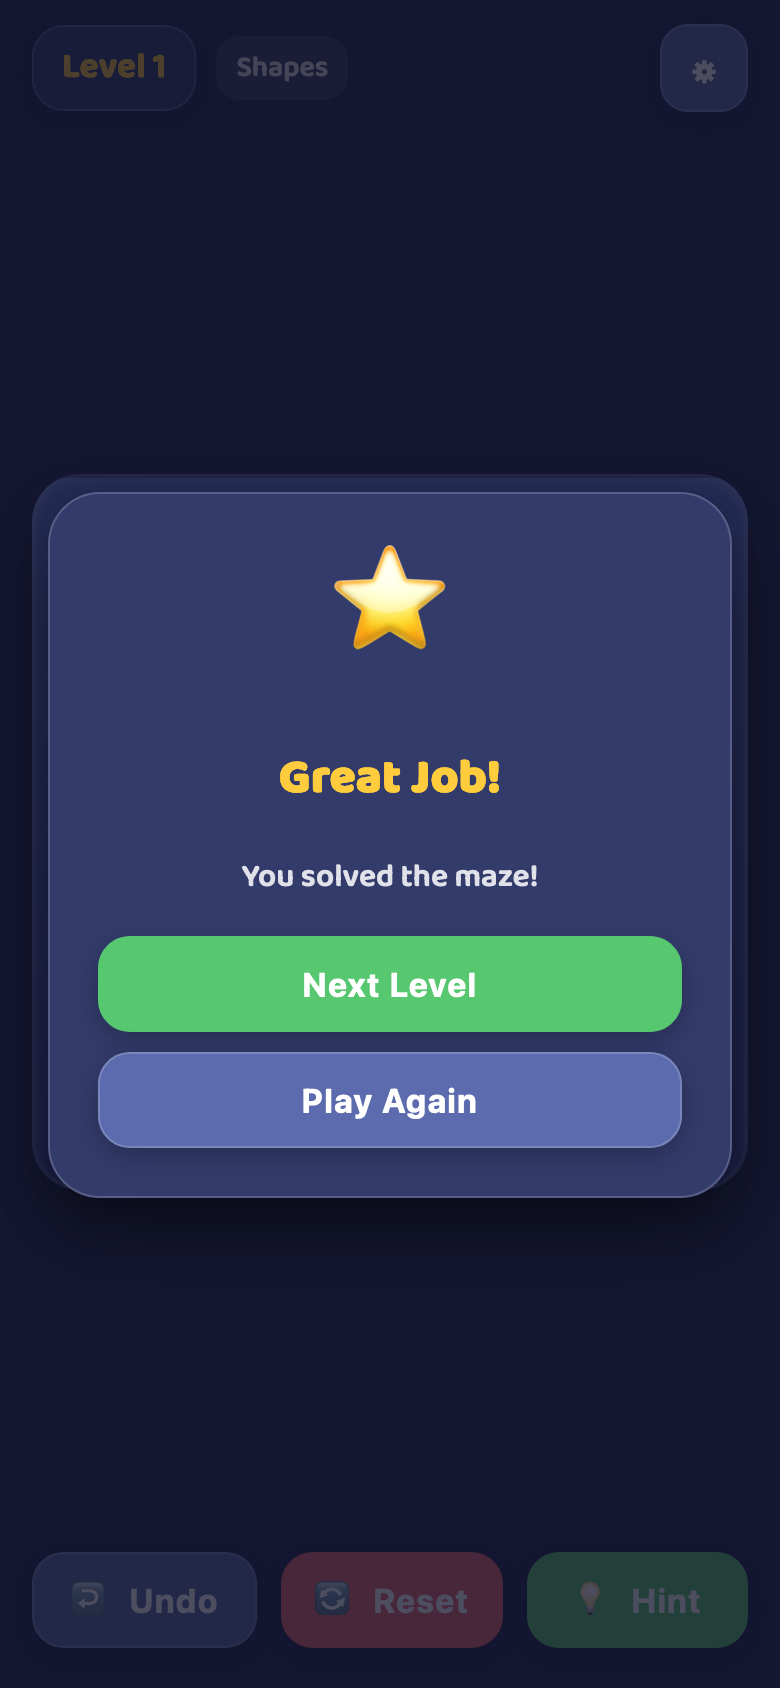
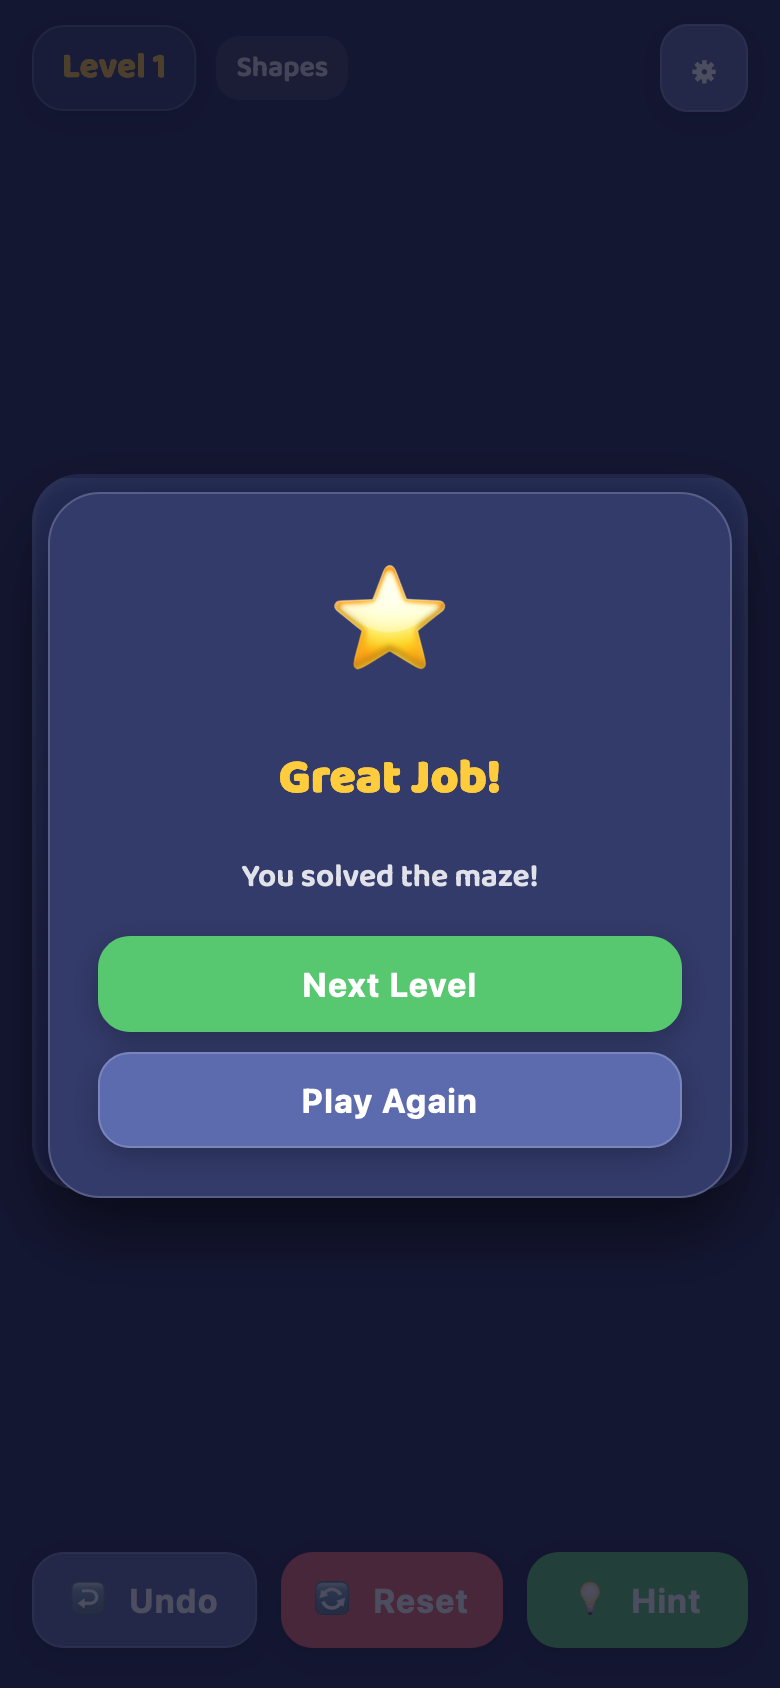
fix: centralize and enforce strict in-bounds and masked cell move validation

Changed region(s): [[0.4308, 0.3081, 0.5846, 0.4005]]

diff --git a/js/ui.js b/js/ui.js
@@ -1,7 +1,7 @@
 // UI & Board Renderer for Arrow Maze Kids
 
 import { t, getLang, setLanguage } from './i18n.js';
-import { generateLevel, getHintNextStep, DIRS } from './maze-generator.js';
+import { generateLevel, getHintNextStep, validateMove, DIRS } from './maze-generator.js';
 import { SettingsStore, GameStateStore } from './storage.js';
 import { SoundPlayer, Haptics } from './audio.js';
 import { track } from './telemetry.js';
@@ -72,12 +72,11 @@ class ArrowMazeUI {
   isValidPathSequence(pathSeq) {
     if (!pathSeq || pathSeq.length === 0) return false;
     if (pathSeq[0].r !== this.board.start.r || pathSeq[0].c !== this.board.start.c) return false;
+    const subPath = [pathSeq[0]];
     for (let i = 1; i < pathSeq.length; i++) {
-      const prev = pathSeq[i - 1];
-      const curr = pathSeq[i];
-      const dist = Math.abs(prev.r - curr.r) + Math.abs(prev.c - curr.c);
-      if (dist !== 1) return false;
-      if (!this.board.mask[curr.r][curr.c]) return false;
+      const v = validateMove(this.board, subPath, pathSeq[i]);
+      if (!v.valid || v.type !== 'step') return false;
+      subPath.push(pathSeq[i]);
     }
     return true;
   }
@@ -227,82 +226,92 @@ class ArrowMazeUI {
 
   getCellFromPointer(clientX, clientY) {
     const svg = this.boardSvg;
-    const rect = svg.getBoundingClientRect();
-    if (clientX < rect.left || clientX > rect.right || clientY < rect.top || clientY > rect.bottom) {
-      return null;
+    if (!svg || !this.board) return null;
+
+    let svgX = clientX;
+    let svgY = clientY;
+
+    // Accurate SVG coordinate transform when CTM is available
+    if (typeof svg.createSVGPoint === 'function' && typeof svg.getScreenCTM === 'function') {
+      const ctm = svg.getScreenCTM();
+      if (ctm) {
+        const pt = svg.createSVGPoint();
+        pt.x = clientX;
+        pt.y = clientY;
+        const svgPt = pt.matrixTransform(ctm.inverse());
+        svgX = svgPt.x;
+        svgY = svgPt.y;
+      }
+    } else {
+      const rect = svg.getBoundingClientRect();
+      if (clientX < rect.left || clientX > rect.right || clientY < rect.top || clientY > rect.bottom) {
+        return null;
+      }
+      const xRel = (clientX - rect.left) / rect.width;
+      const yRel = (clientY - rect.top) / rect.height;
+      const padding = 10, size = 100, gap = 6;
+      const viewBoxWidth = this.board.cols * size + (this.board.cols - 1) * gap + padding * 2;
+      const viewBoxHeight = this.board.rows * size + (this.board.rows - 1) * gap + padding * 2;
+      svgX = xRel * viewBoxWidth;
+      svgY = yRel * viewBoxHeight;
     }
 
-    const { rows, cols } = this.board;
-    const xRel = (clientX - rect.left) / rect.width;
-    const yRel = (clientY - rect.top) / rect.height;
+    const padding = 10, size = 100, gap = 6;
+    const x = svgX - padding;
+    const y = svgY - padding;
 
-    const c = Math.floor(xRel * cols);
-    const r = Math.floor(yRel * rows);
+    if (x < 0 || y < 0) return null;
 
-    if (r >= 0 && r < rows && c >= 0 && c < cols && this.board.mask[r][c]) {
+    const colWidth = size + gap;
+    const rowHeight = size + gap;
+    const c = Math.floor(x / colWidth);
+    const r = Math.floor(y / rowHeight);
+
+    const cellX = x - c * colWidth;
+    const cellY = y - r * rowHeight;
+    if (cellX > size || cellY > size) return null;
+
+    const { rows, cols, mask } = this.board;
+    if (r >= 0 && r < rows && c >= 0 && c < cols && mask[r] && mask[r][c]) {
       return { r, c };
     }
     return null;
   }
 
   attemptMoveTo(target) {
-    if (!target) return;
-    const head = this.path[this.path.length - 1];
+    if (!target || !this.board || !this.path || this.path.length === 0) return;
 
-    // Check if tapping/moving to current head
-    if (target.r === head.r && target.c === head.c) return;
+    const validation = validateMove(this.board, this.path, target);
 
-    // Check if backtracking (target is cell immediately before head)
-    if (this.path.length > 1) {
-      const prev = this.path[this.path.length - 2];
-      if (target.r === prev.r && target.c === prev.c) {
-        this.path.pop();
-        this.hintCell = null;
-        this.sound.play('backtrack');
-        this.haptics.backtrack();
-        GameStateStore.savePath(this.currentLevel, this.path);
-        this.renderBoard();
-        return;
+    if (!validation.valid) {
+      if (validation.reason !== 'same_head' && validation.reason !== 'not_adjacent') {
+        this.triggerInvalidMove(target);
       }
-    }
-
-    // Check if move is adjacent
-    const dist = Math.abs(target.r - head.r) + Math.abs(target.c - head.c);
-    if (dist !== 1) return; // Must be orthogonally adjacent
-
-    // Check if already in path (no self-crossing / cell revisits)
-    if (this.path.some(p => p.r === target.r && p.c === target.c)) {
-      this.triggerInvalidMove(target);
       return;
     }
 
-    // Check Arrow constraint on current head cell
-    const headKey = `${head.r},${head.c}`;
-    const arrowDir = this.board.arrows[headKey];
-    if (arrowDir) {
-      let requiredDr = 0, requiredDc = 0;
-      if (arrowDir === 'N') requiredDr = -1;
-      else if (arrowDir === 'S') requiredDr = 1;
-      else if (arrowDir === 'E') requiredDc = 1;
-      else if (arrowDir === 'W') requiredDc = -1;
-
-      if (target.r - head.r !== requiredDr || target.c - head.c !== requiredDc) {
-        this.triggerInvalidMove(target);
-        return;
-      }
+    if (validation.type === 'backtrack') {
+      this.path.pop();
+      this.hintCell = null;
+      this.sound.play('backtrack');
+      this.haptics.backtrack();
+      GameStateStore.savePath(this.currentLevel, this.path);
+      this.renderBoard();
+      return;
     }
 
-    // Move is legal! Extend path
-    this.path.push(target);
-    this.hintCell = null;
-    this.sound.play('step');
-    this.haptics.step();
-    GameStateStore.savePath(this.currentLevel, this.path);
-    this.renderBoard();
+    if (validation.type === 'step') {
+      this.path.push(target);
+      this.hintCell = null;
+      this.sound.play('step');
+      this.haptics.step();
+      GameStateStore.savePath(this.currentLevel, this.path);
+      this.renderBoard();
 
-    // Check win condition
-    if (target.r === this.board.goal.r && target.c === this.board.goal.c) {
-      this.handleWin();
+      // Check win condition
+      if (target.r === this.board.goal.r && target.c === this.board.goal.c) {
+        this.handleWin();
+      }
     }
   }
 
@@ -310,10 +319,12 @@ class ArrowMazeUI {
     this.sound.play('invalid');
     this.haptics.invalid();
 
-    const rect = this.boardSvg.querySelector(`.cell-bg[data-r="${cell.r}"][data-c="${cell.c}"]`);
-    if (rect) {
-      rect.classList.add('invalid-pulse');
-      setTimeout(() => rect.classList.remove('invalid-pulse'), 300);
+    if (cell && typeof cell.r === 'number' && typeof cell.c === 'number') {
+      const rect = this.boardSvg.querySelector(`.cell-bg[data-r="${cell.r}"][data-c="${cell.c}"]`);
+      if (rect) {
+        rect.classList.add('invalid-pulse');
+        setTimeout(() => rect.classList.remove('invalid-pulse'), 300);
+      }
     }
   }
 

diff --git a/scripts/validate_movement.js b/scripts/validate_movement.js
@@ -1,0 +1,104 @@
+// Regression test for move validation and bounds checking in Arrow Maze Kids
+
+import { generateLevel, validateMove } from '../js/maze-generator.js';
+
+let totalTests = 0;
+let passedTests = 0;
+
+function assert(condition, message) {
+  totalTests++;
+  if (condition) {
+    passedTests++;
+  } else {
+    console.error(`FAILED: ${message}`);
+    process.exitCode = 1;
+  }
+}
+
+console.log('--- Running Movement & Bounds Validation Tests ---');
+
+// 1. Test Out-of-Bounds Moves
+const level1 = generateLevel(1); // 3x3 square
+const pathStart1 = [level1.start]; // { r: 0, c: 0 }
+
+// Moving Up from (0,0) -> (-1, 0)
+const moveUpOB = validateMove(level1, pathStart1, { r: -1, c: 0 });
+assert(!moveUpOB.valid && moveUpOB.reason === 'out_of_bounds', 'Move up out-of-bounds rejected');
+
+// Moving Left from (0,0) -> (0, -1)
+const moveLeftOB = validateMove(level1, pathStart1, { r: 0, c: -1 });
+assert(!moveLeftOB.valid && moveLeftOB.reason === 'out_of_bounds', 'Move left out-of-bounds rejected');
+
+// Moving far off board
+const moveFarOB = validateMove(level1, pathStart1, { r: 10, c: 10 });
+assert(!moveFarOB.valid && moveFarOB.reason === 'out_of_bounds', 'Far out-of-bounds rejected');
+
+// 2. Test Masked-Cell Moves (Off-board shape silhouettes)
+const level2 = generateLevel(2); // Arrow shape mask
+// Level 2 mask has (0, 0) as false
+const pathStart2 = [{ r: 0, c: 1 }]; // Start is (3,1), but let's test head at (0,1)
+const moveMasked = validateMove(level2, [{ r: 0, c: 1 }], { r: 0, c: 0 });
+assert(!moveMasked.valid && moveMasked.reason === 'masked_cell', 'Step onto masked/unplayable cell rejected');
+
+// Level 12 (Animal Shape)
+const level12 = generateLevel(12);
+// Find a masked cell adjacent to a valid cell
+let maskedTarget = null;
+let headPos = null;
+for (let r = 0; r < level12.rows; r++) {
+  for (let c = 0; c < level12.cols; c++) {
+    if (level12.mask[r][c]) {
+      const neighbors = [
+        { r: r - 1, c }, { r: r + 1, c }, { r, c: c - 1 }, { r, c: c + 1 }
+      ];
+      for (const n of neighbors) {
+        if (n.r >= 0 && n.r < level12.rows && n.c >= 0 && n.c < level12.cols && !level12.mask[n.r][n.c]) {
+          headPos = { r, c };
+          maskedTarget = n;
+          break;
+        }
+      }
+    }
+    if (maskedTarget) break;
+  }
+}
+
+if (headPos && maskedTarget) {
+  const res = validateMove(level12, [headPos], maskedTarget);
+  assert(!res.valid && res.reason === 'masked_cell', `Animal shape masked cell move rejected at (${maskedTarget.r}, ${maskedTarget.c})`);
+}
+
+// 3. Test Arrow Rule Constraints
+const level3 = generateLevel(3);
+// Level 3 has arrow at (0,1) pointing 'E' -> required dr=0, dc=1
+const pathAtArrow = [{ r: 0, c: 0 }, { r: 0, c: 1 }];
+// Trying to move South (1,1) from (0,1) violates arrow pointing East
+const moveWrongArrow = validateMove(level3, pathAtArrow, { r: 1, c: 1 });
+assert(!moveWrongArrow.valid && moveWrongArrow.reason === 'arrow_mismatch', 'Arrow constraint mismatch rejected');
+
+// Correct arrow move East (0,2) from (0,1)
+const moveCorrectArrow = validateMove(level3, pathAtArrow, { r: 0, c: 2 });
+assert(moveCorrectArrow.valid && moveCorrectArrow.type === 'step', 'Valid arrow constraint move accepted');
+
+// 4. Test Self-Crossing / Cell Revisit
+const pathVisited = [{ r: 0, c: 0 }, { r: 0, c: 1 }, { r: 1, c: 1 }, { r: 1, c: 0 }];
+// Trying to step onto (0,0) from (1,0)
+const moveRevisit = validateMove(level1, pathVisited, { r: 0, c: 0 });
+assert(!moveRevisit.valid && moveRevisit.reason === 'already_visited', 'Self-crossing / cell revisit rejected');
+
+// 5. Test Backtracking
+// Moving to immediately preceding cell (1,1) from (1,0)
+const moveBacktrack = validateMove(level1, pathVisited, { r: 1, c: 1 });
+assert(moveBacktrack.valid && moveBacktrack.type === 'backtrack', 'Backtracking move accepted');
+
+// 6. Test Non-Adjacent Jump
+const moveJump = validateMove(level1, [{ r: 0, c: 0 }], { r: 2, c: 2 });
+assert(!moveJump.valid && moveJump.reason === 'not_adjacent', 'Non-adjacent jump rejected');
+
+console.log(`Summary: ${passedTests}/${totalTests} tests passed.`);
+
+if (passedTests === totalTests) {
+  console.log('ALL MOVEMENT & BOUNDS VALIDATION TESTS PASSED SUCCESSFULLY!');
+} else {
+  process.exit(1);
+}

diff --git a/js/maze-generator.js b/js/maze-generator.js
@@ -1,6 +1,71 @@
 // Deterministic Level & Maze Generator for Arrow Maze Kids
 // Generates 100% solvable levels with shape masks, arrow rules, and solver validation.
 
+// Validate a candidate step from currentPath's head to target cell
+export function validateMove(board, currentPath, target) {
+  if (!board || !currentPath || currentPath.length === 0 || !target) {
+    return { valid: false, reason: 'invalid_input' };
+  }
+
+  const { rows, cols, mask, arrows } = board;
+  const head = currentPath[currentPath.length - 1];
+
+  // 1. Backtracking check (target is immediately preceding path cell)
+  if (currentPath.length > 1) {
+    const prev = currentPath[currentPath.length - 2];
+    if (target.r === prev.r && target.c === prev.c) {
+      return { valid: true, type: 'backtrack' };
+    }
+  }
+
+  // 2. Same cell as current head
+  if (target.r === head.r && target.c === head.c) {
+    return { valid: false, reason: 'same_head' };
+  }
+
+  // 3. Out-of-bounds check
+  if (
+    typeof target.r !== 'number' || typeof target.c !== 'number' ||
+    target.r < 0 || target.r >= rows ||
+    target.c < 0 || target.c >= cols
+  ) {
+    return { valid: false, reason: 'out_of_bounds' };
+  }
+
+  // 4. Mask check (must be a playable cell)
+  if (!mask[target.r] || !mask[target.r][target.c]) {
+    return { valid: false, reason: 'masked_cell' };
+  }
+
+  // 5. Orthogonal adjacency check
+  const dist = Math.abs(target.r - head.r) + Math.abs(target.c - head.c);
+  if (dist !== 1) {
+    return { valid: false, reason: 'not_adjacent' };
+  }
+
+  // 6. Visited check (no self-crossing / cell revisits)
+  if (currentPath.some(p => p.r === target.r && p.c === target.c)) {
+    return { valid: false, reason: 'already_visited' };
+  }
+
+  // 7. Arrow constraint on current head cell
+  const headKey = `${head.r},${head.c}`;
+  const arrowDir = arrows && arrows[headKey];
+  if (arrowDir) {
+    let reqDr = 0, reqDc = 0;
+    if (arrowDir === 'N') reqDr = -1;
+    else if (arrowDir === 'S') reqDr = 1;
+    else if (arrowDir === 'E') reqDc = 1;
+    else if (arrowDir === 'W') reqDc = -1;
+
+    if (target.r - head.r !== reqDr || target.c - head.c !== reqDc) {
+      return { valid: false, reason: 'arrow_mismatch' };
+    }
+  }
+
+  return { valid: true, type: 'step' };
+}
+
 class PRNG {
   constructor(seed) {
     this.seed = seed >>> 0;

diff --git a/README.md b/README.md
@@ -19,6 +19,7 @@ Follow the arrows, trace a path from Start to Goal, and solve the maze!
 - **Infinite Deterministic Levels:** 100% guaranteed solvable levels progressing from onboarding tutorial levels to easy, medium, and hard puzzles.
 - **Original Shape Families:** Procedural board silhouettes including Arrow, Geometric shapes (Squares, L-Shapes, Frames, Diamonds), and friendly Animals (Cat, Fish, Turtle, Rocket).
 - **Hybrid Input:** Touch/mouse drag tracing, tap stepping, and full keyboard Arrow/WASD controls.
+- **Player Marker & Visual Guidance:** A glowing yellow circle marker (`.path-bead.head`) clearly indicates the player's active path endpoint, strictly constrained to valid, playable cells on the board (🟢 Start, ⭐ Goal).
 - **Calm & Child-Friendly:** No timers, no lives, no score pressure, no ads, no tracking, and no scary failure.
 - **Forgiving Controls:** Undo, Reset, and Next-step Hint.
 - **English + Hebrew (RTL):** Fully localized interface supporting English and Hebrew (RTL) with Fredoka and Baloo 2 typography.
